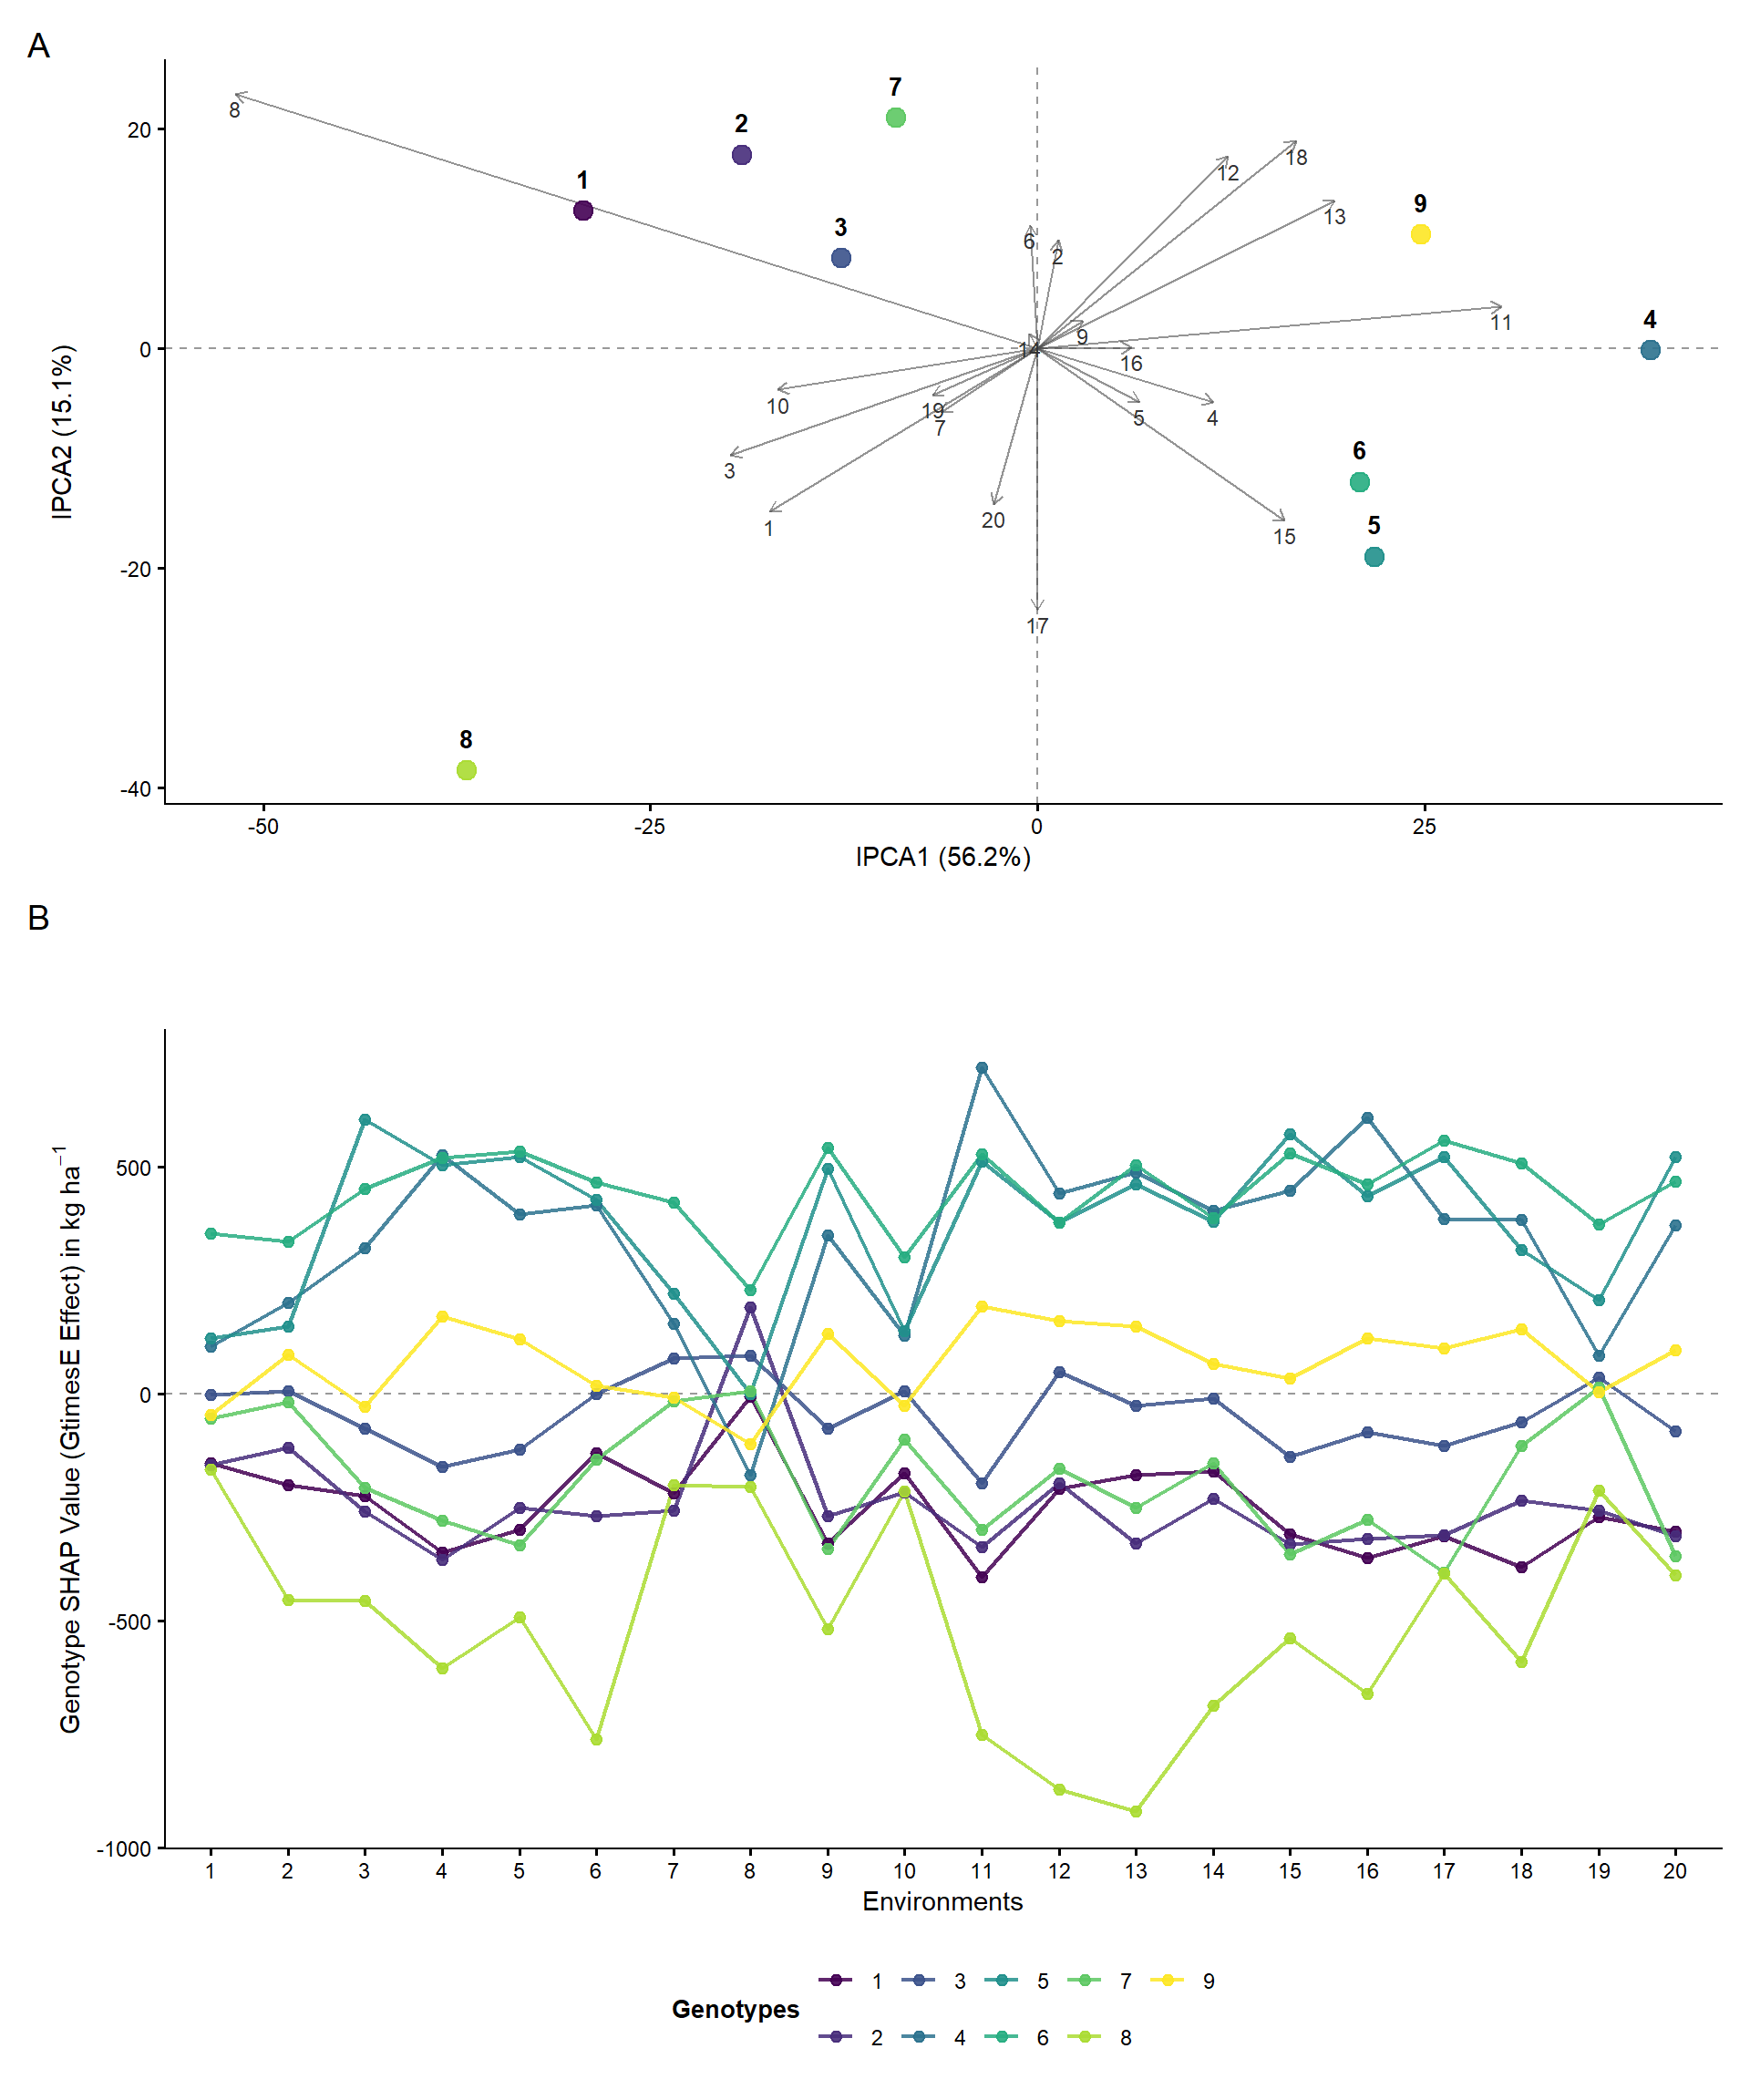
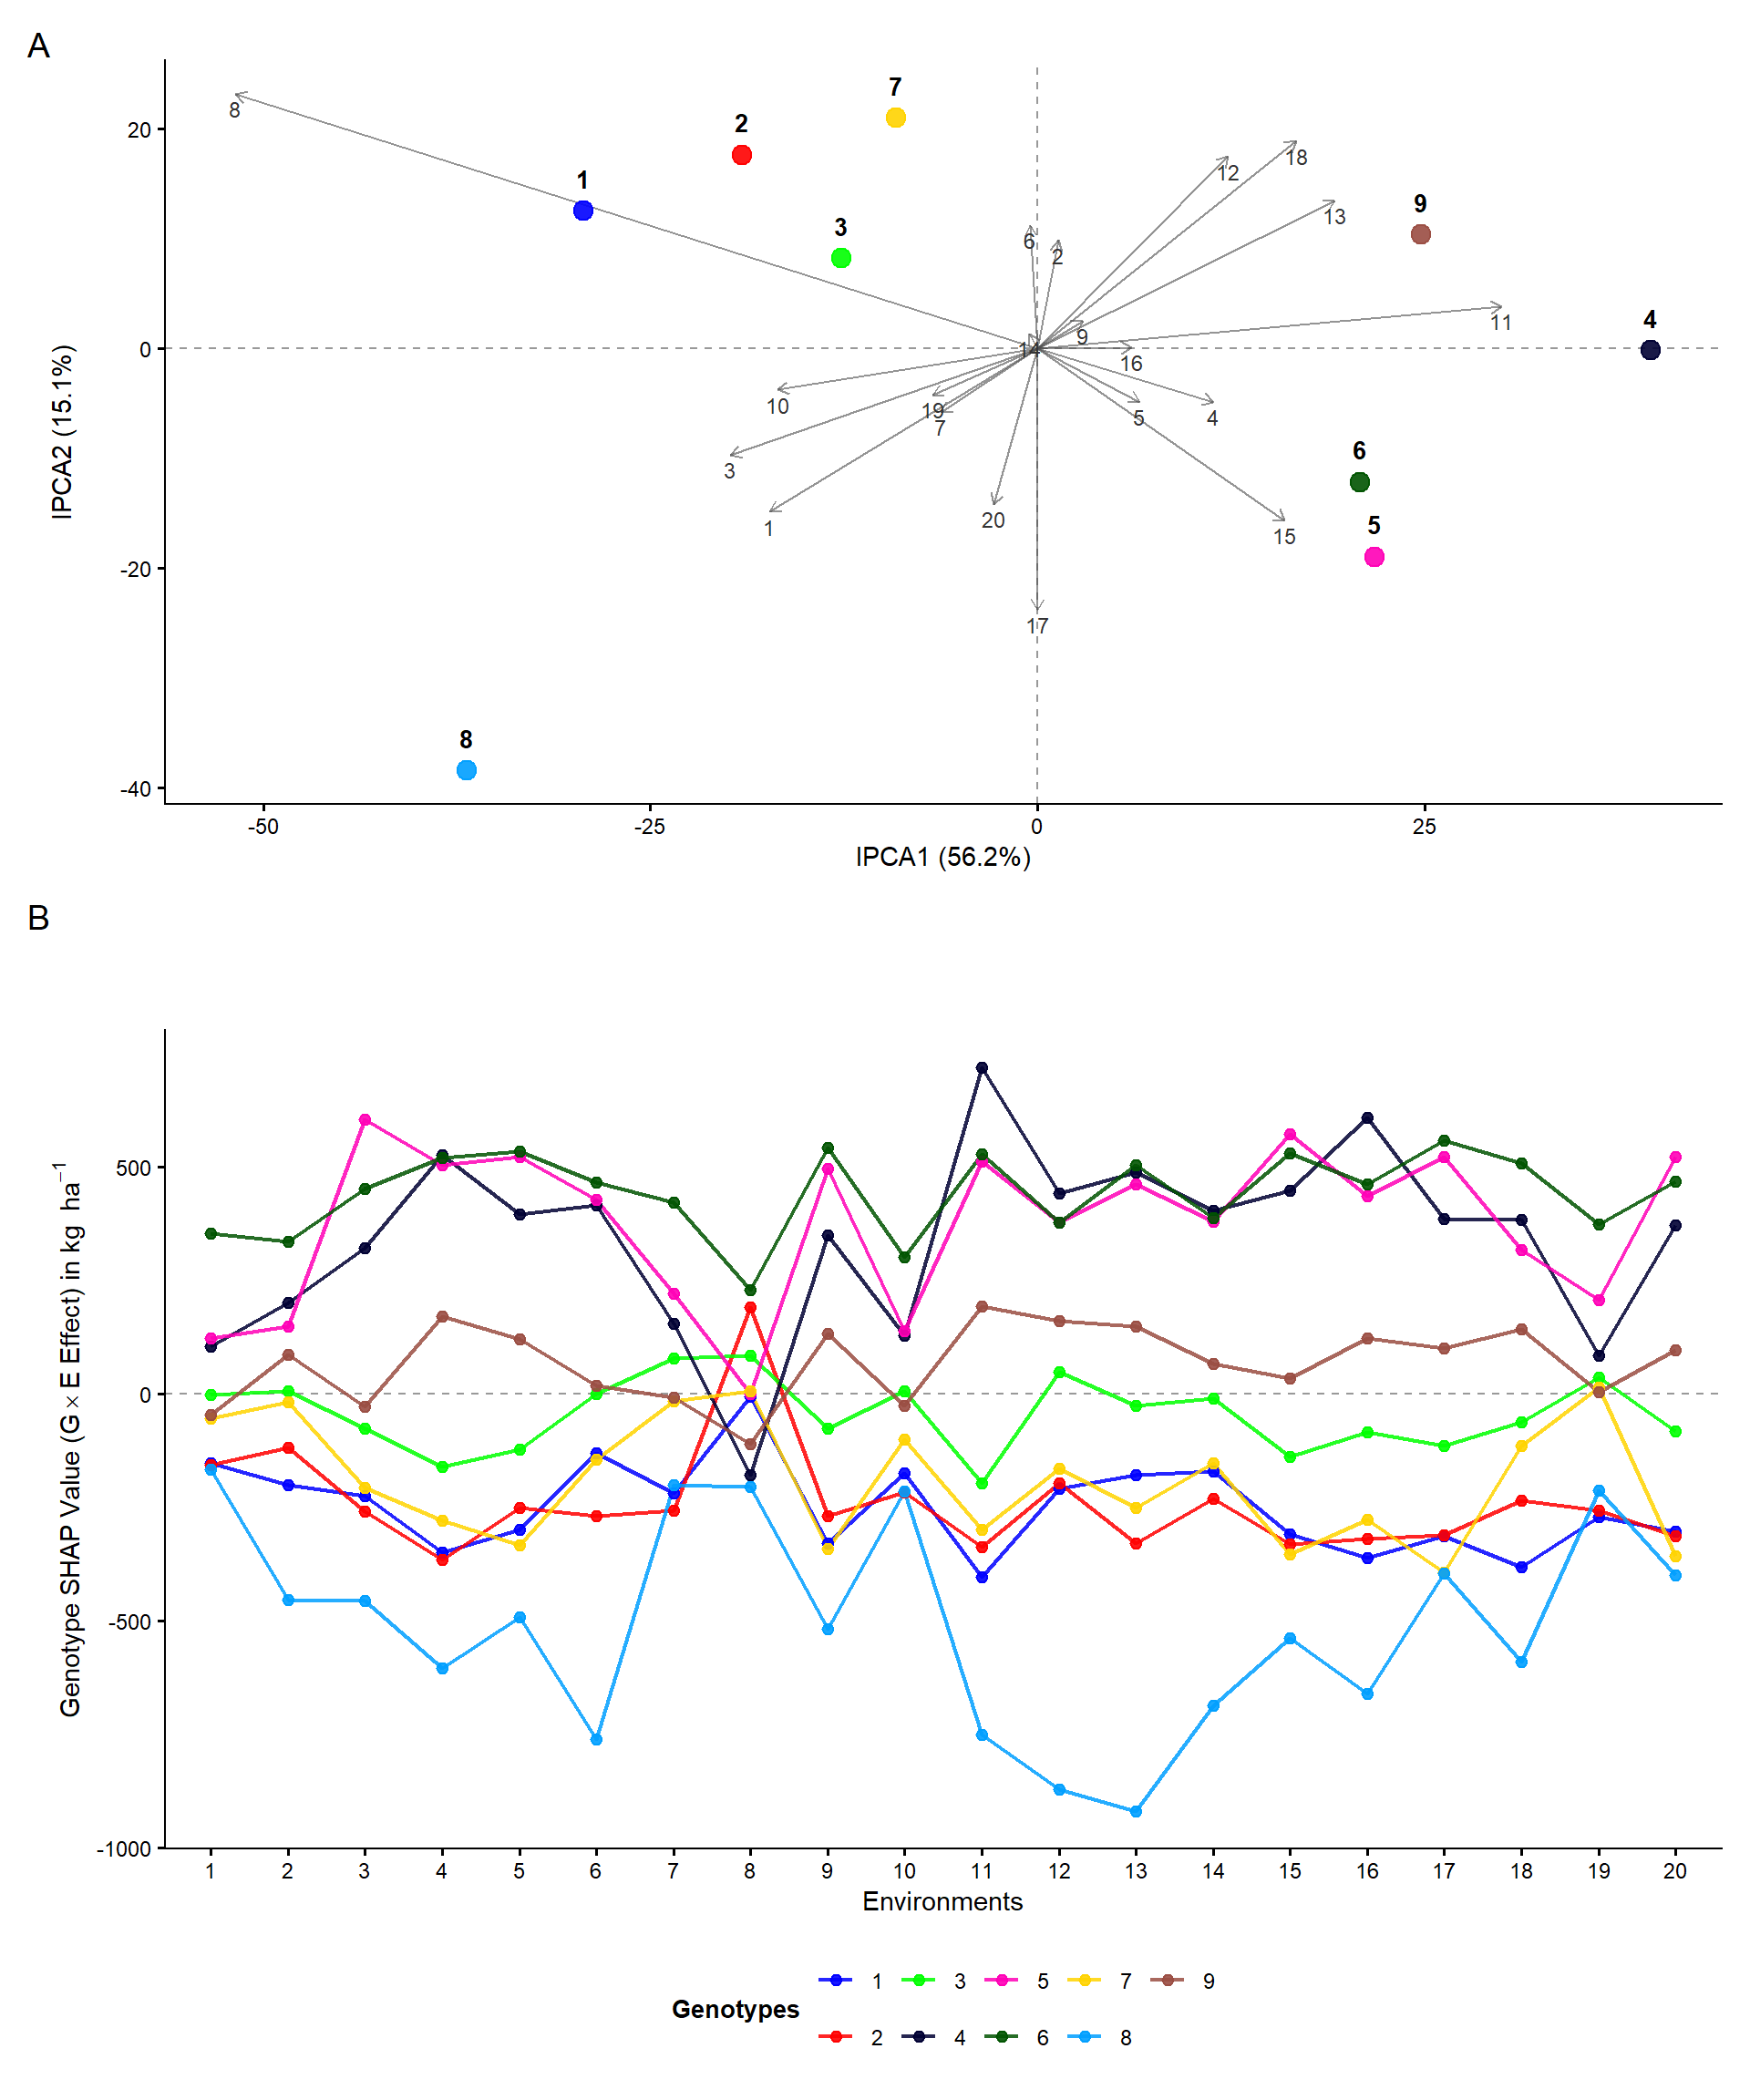
Build site.

diff --git a/docs/analysis.html b/docs/analysis.html
@@ -528,15 +528,15 @@ project makes it easier to run your code on other machines.</p>
 <div class="panel panel-default">
 <div class="panel-heading">
 <p class="panel-title">
-<a data-toggle="collapse" data-parent="#workflowr-checks" href="#strongRepositoryversionstrongahrefhttpsgithubcomWevertonGomesCostanonlineargeinteractionshaptree2f739c5fed29ffb3aeb6da70733a7d63d4c7dcd7targetblank2f739c5a">
+<a data-toggle="collapse" data-parent="#workflowr-checks" href="#strongRepositoryversionstrongahrefhttpsgithubcomWevertonGomesCostanonlineargeinteractionshaptree70b332dca081cfbdf9a562aeb2625fac0edb360ctargetblank70b332da">
 <span class="glyphicon glyphicon-ok text-success"
 aria-hidden="true"></span> <strong>Repository version:</strong>
-<a href="https://github.com/WevertonGomesCosta/nonlinear-ge-interaction-shap/tree/2f739c5fed29ffb3aeb6da70733a7d63d4c7dcd7" target="_blank">2f739c5</a>
+<a href="https://github.com/WevertonGomesCosta/nonlinear-ge-interaction-shap/tree/70b332dca081cfbdf9a562aeb2625fac0edb360c" target="_blank">70b332d</a>
 </a>
 </p>
 </div>
 <div
[2 lines of base64/hex data omitted]
 class="panel-collapse collapse">
 <div class="panel-body">
 <p>
@@ -546,7 +546,7 @@ reproducibility.
 </p>
 <p>
 The results in this page were generated with repository version
-<a href="https://github.com/WevertonGomesCosta/nonlinear-ge-interaction-shap/tree/2f739c5fed29ffb3aeb6da70733a7d63d4c7dcd7" target="_blank">2f739c5</a>.
+<a href="https://github.com/WevertonGomesCosta/nonlinear-ge-interaction-shap/tree/70b332dca081cfbdf9a562aeb2625fac0edb360c" target="_blank">70b332d</a>.
 See the <em>Past versions</em> tab to see a history of the changes made
 to the R Markdown and HTML files.
 </p>
@@ -611,6 +611,40 @@ Message
 </tr>
 </thead>
 <tbody>
+<tr>
+<td>
+Rmd
+</td>
+<td>
+<a href="https://github.com/WevertonGomesCosta/nonlinear-ge-interaction-shap/blob/70b332dca081cfbdf9a562aeb2625fac0edb360c/analysis/analysis.Rmd" target="_blank">70b332d</a>
+</td>
+<td>
+WevertonGomesCosta
+</td>
+<td>
[phone redacted]
+</td>
+<td>
+Standardize AMMI and SHAP genotype colors
+</td>
+</tr>
+<tr>
+<td>
+html
+</td>
+<td>
+<a href="https://rawcdn.githack.com/WevertonGomesCosta/nonlinear-ge-interaction-shap/88f6ef426d8d31874b69348925434caf4032ea04/docs/analysis.html" target="_blank">88f6ef4</a>
+</td>
+<td>
+WevertonGomesCosta
+</td>
+<td>
[phone redacted]
+</td>
+<td>
+Build site.
+</td>
+</tr>
 <tr>
 <td>
 Rmd
@@ -1550,23 +1584,20 @@ p_shap &lt;- ggplot(
     size = 2,
     alpha = 0.9
   ) +
-  scale_color_viridis_d(
-    option = &quot;viridis&quot;
+  scale_color_manual(
+    values = as.vector(
+      pals::glasbey(9)
+    )
   ) +
   theme_classic(
     base_size = 12
   ) +
   labs(
-    title = &quot;&quot;,
-    subtitle = &quot;&quot;,
+    title = &quot; &quot;,
+    subtitle = &quot; &quot;,
     x = &quot;Environments&quot;,
-    y = expression(
-      paste(
-        &quot;Genotype SHAP Value (G&quot;,
-        times,
-        &quot;E Effect) in kg &quot;,
-        ha^-1
-      )
+    y = bquote(
+      &quot;Genotype SHAP Value (G&quot; %*% &quot;E Effect) in kg &quot; ~ ha^-1
     ),
     color = &quot;Genotypes&quot;
   ) +
@@ -1579,7 +1610,9 @@ p_shap &lt;- ggplot(
     plot.subtitle = element_text(
       size = 10,
       color = &quot;gray30&quot;,
-      margin = ggplot2::margin(b = 12)
+      margin = ggplot2::margin(
+        b = 12
+      )
     ),
     axis.title = element_text(
       face = &quot;plain&quot;,
@@ -1848,8 +1881,10 @@ each component.</p>
     size = 3.5,
     show.legend = FALSE
   ) +
-  scale_color_viridis_d(
-    option = &quot;viridis&quot;
+  scale_color_manual(
+    values = as.vector(
+      pals::glasbey(9)
+    )
   ) +
   theme_classic(
     base_size = 12